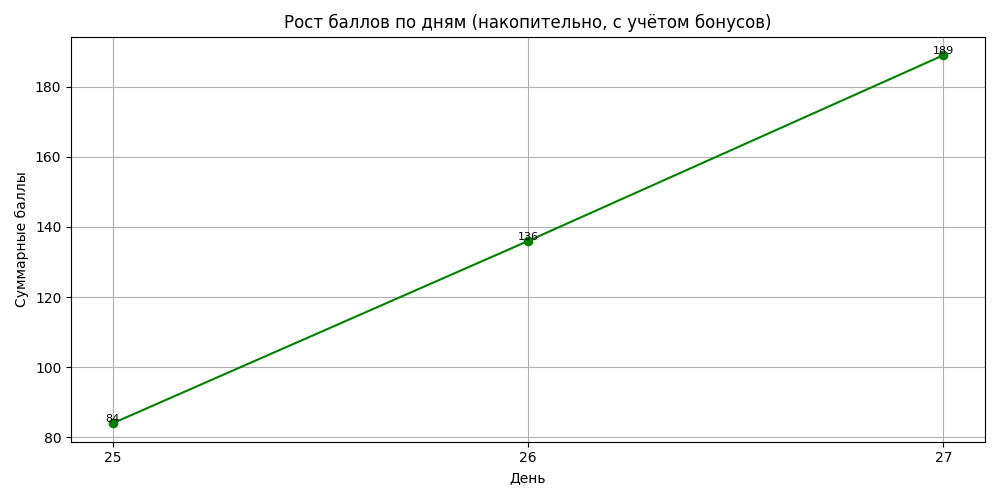
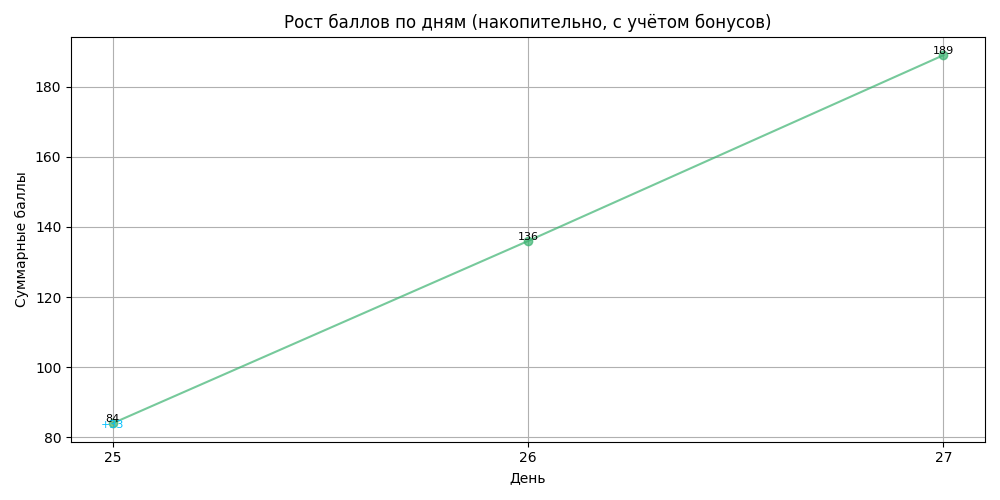
catboost day4 --rating 51

diff --git a/BoostChallenge/stats.py b/BoostChallenge/stats.py
@@ -27,9 +27,11 @@ plt.close()
 
 total_points = (points + bonus).cumsum()
 plt.figure(figsize=(10, 5))
-plt.plot(days, total_points, marker='o', color='green')
-for x, y in zip(days, total_points):
+plt.plot(days, total_points, marker='o', color='mediumseagreen', alpha=0.7)
+for x, y, p, b in zip(days, total_points, points, bonus):
     plt.text(x, y + 0.3, f'{y}', ha='center', fontsize=8)
+    if b > 0:
+        plt.text(x, y - 1.2, f'+{b}', ha='center', fontsize=8, color='deepskyblue')
 plt.title('Рост баллов по дням (накопительно, с учётом бонусов)')
 plt.xlabel('День')
 plt.ylabel('Суммарные баллы')
@@ -38,4 +40,3 @@ plt.xticks(days)
 plt.tight_layout()
 plt.savefig('images/total_points_by_day.png')
 plt.close()
-

diff --git a/BoostChallenge/28June/solve.py b/BoostChallenge/28June/solve.py
@@ -1,0 +1,25 @@
+def solution(n, a):
+    result = [1]
+    prev = None
+
+    for i in range(n):
+        options = [a[i], -a[i]]
+        options.sort()
+        if prev is None:
+            chosen = min(options)
+        else:
+            valid = [x for x in options if x >= prev]
+            if not valid:
+                return [0] * (n + 1)
+            chosen = min(valid)
+        result.append(chosen)
+        prev = chosen
+
+    return result
+
+
+def test():
+    print(solution(n=5, a=[1, -1, -2, 3, 6]))
+
+
+if __name__ == '__main__': test()
